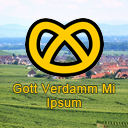
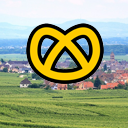
Change name & support p tag

diff --git a/js/Ipsum_generator.js b/js/Ipsum_generator.js
@@ -1,5 +1,5 @@
 /*
-* Gott Verdamm Mi Ipsum - v1.0 - 24/08/2015
+* Elsass Ipsum - v1.0 - 24/08/2015
 * Copyright (c) 2015 Aymeric Bouchereau; Licensed CC BY-SA 4.0
 */
 var loremGotFotamiIpsum = new function(){
@@ -30,7 +30,7 @@ var loremGotFotamiIpsum = new function(){
     this.getARandomNumberBetween = function(min,max){
         return Math.floor(Math.random()*(max-min+1)) + min;
     };
-    this.generateIpsum = function(nb,type){
+    this.generateIpsum = function(nb,type,p){
         switch(type){
             case "paragraph":
                 var paragraphs = new Array();
@@ -38,7 +38,8 @@ var loremGotFotamiIpsum = new function(){
                 while(i<nb){
                     var length = this.getARandomNumberBetween(this.paramParagraph[0],this.paramParagraph[1]);
                     var paragraph = this.generateIpsum(length,"sentence");
-                    paragraphs.push("<p>"+paragraph+"</p>");
+                    if(p){paragraphs.push("<p>"+paragraph+"</p>");}
+                    else{paragraphs.push(""+paragraph+"");}
                     i++;
                 }
                 return paragraphs.join("\n");
@@ -67,19 +68,20 @@ var loremGotFotamiIpsum = new function(){
 // Launch ipsum generator !
 document.addEventListener("DOMContentLoaded",function(event){
     loremGotFotamiIpsum.paramWords = loremGotFotamiIpsum.shuffle(loremGotFotamiIpsum.paramWords);
-    document.getElementById("res").value = loremGotFotamiIpsum.generateIpsum(1,"paragraph"); 
+    document.getElementById("res").value = loremGotFotamiIpsum.generateIpsum(1,"paragraph",true); 
     selectIpsum();
 });
 document.getElementById("apropos").addEventListener("click",function(){
-    alert("Gott Verdamm Mi Ipsum est une adaptation du traditionnel texte de remplissage Lorem Ipsum. Il s'agit de mots issus du patois anciennement parlé en Alsace (France), l'alsacien. \n\nLa création de l'extension a été inspirée par le Schnapsum (lorem ipsum alsacien) mis en ligne par Alsacréations (http://www.alsacreations.com/page/schnapsum/)."); 
+    alert("Elsass Ipsum est une adaptation du traditionnel texte de remplissage Lorem Ipsum. Il s'agit de mots issus du patois anciennement parlé en Alsace (France), l'alsacien. \n\nLa création de l'extension a été inspirée par le Schnapsum (lorem ipsum alsacien) mis en ligne par Alsacréations (http://www.alsacreations.com/page/schnapsum/)."); 
 });
 document.getElementById("selectionner").addEventListener("click",function(){
     selectIpsum();
 });
 document.getElementById("generer").addEventListener("click",function(){
     var nbParagraph = document.getElementById("nbParagraph").value;
+    var isBaliseP = document.getElementById("baliseP").checked;
     loremGotFotamiIpsum.paramWords = loremGotFotamiIpsum.shuffle(loremGotFotamiIpsum.paramWords);
-    document.getElementById("res").value = loremGotFotamiIpsum.generateIpsum(nbParagraph,"paragraph"); 
+    document.getElementById("res").value = loremGotFotamiIpsum.generateIpsum(nbParagraph,"paragraph",isBaliseP); 
     selectIpsum();
 });
 function selectIpsum(){

diff --git a/README.md b/README.md
@@ -1,8 +1,8 @@
-# Gott Verdamm Mi Ipsum
+# Elsass Ipsum
 
 > Lorem Ipsum alsacien
 
-Gott Verdamm Mi Ipsum est une adaptation du traditionnel texte de remplissage Lorem Ipsum. Il s'agit de mots issus du patois anciennement parlé en Alsace (France), l'alsacien.
+Elsass Ipsum est une adaptation du traditionnel texte de remplissage Lorem Ipsum. Il s'agit de mots issus du patois anciennement parlé en Alsace (France), l'alsacien.
 
 La création de l'extension a été inspirée par le Schnapsum (lorem ipsum alsacien) mis en ligne par Alsacréations ([http://www.alsacreations.com/page/schnapsum/](http://www.alsacreations.com/page/schnapsum/)).
 
